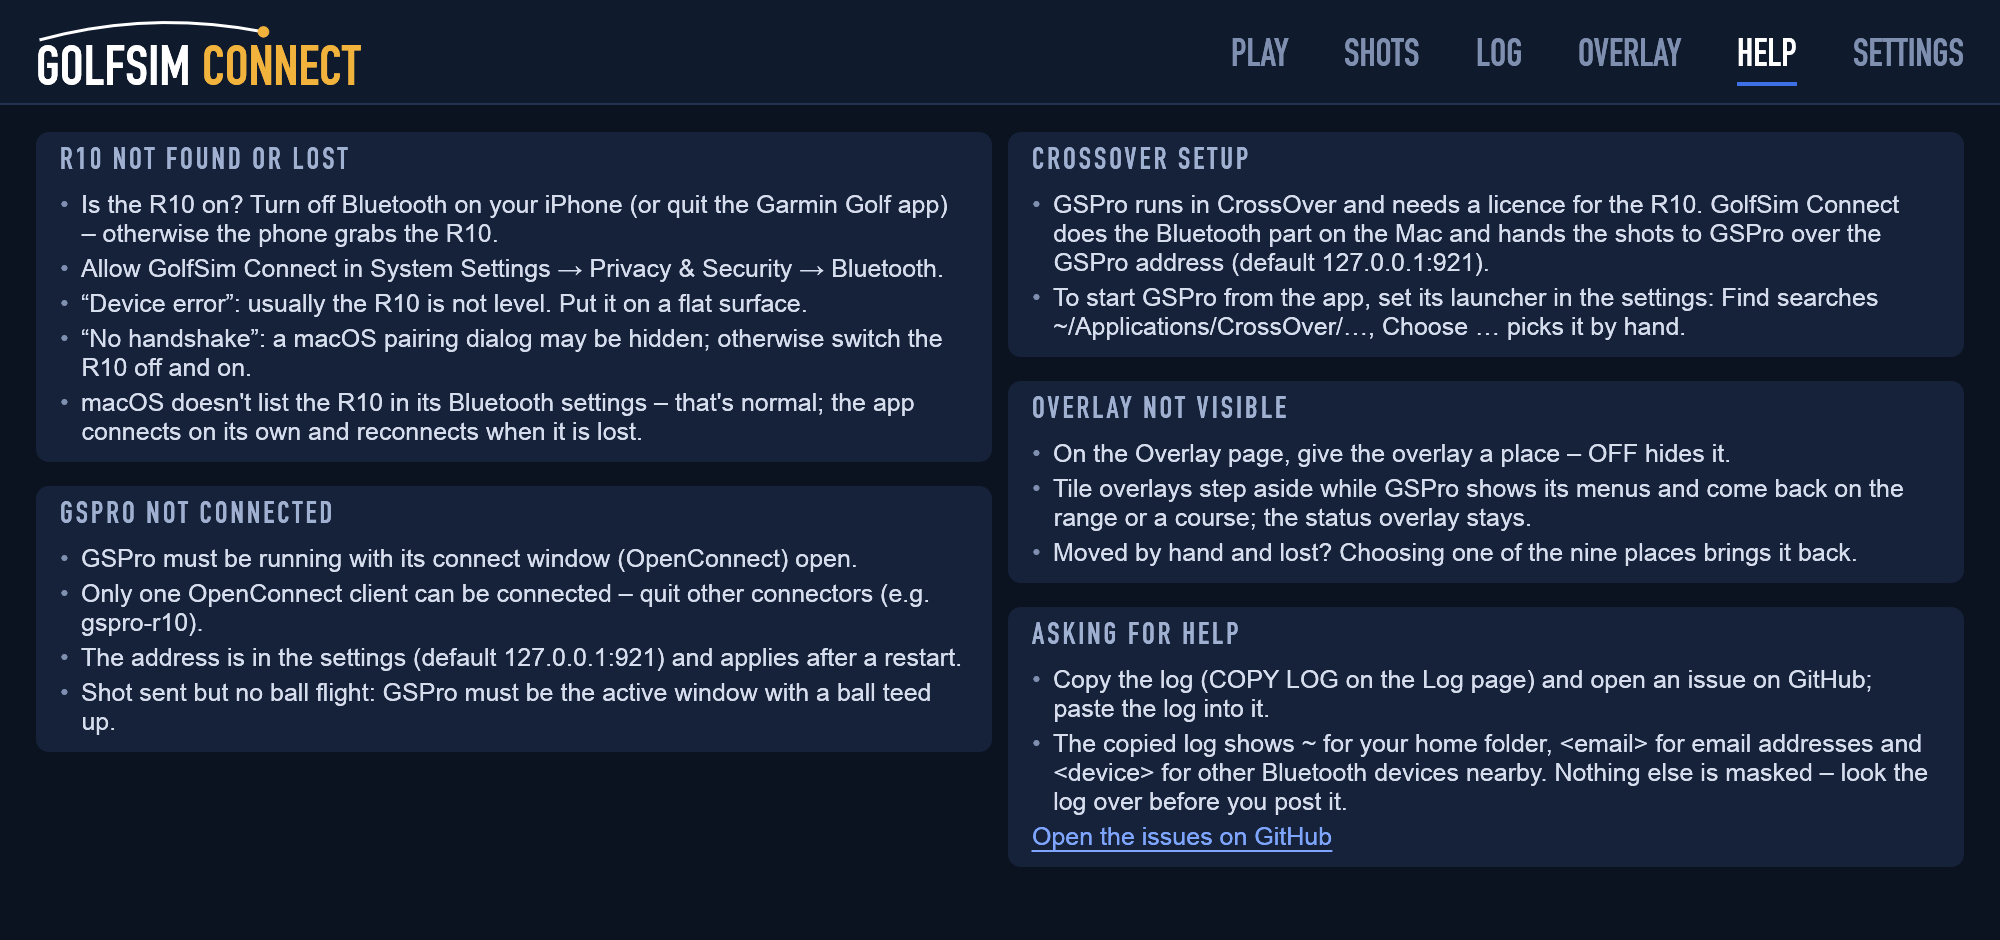
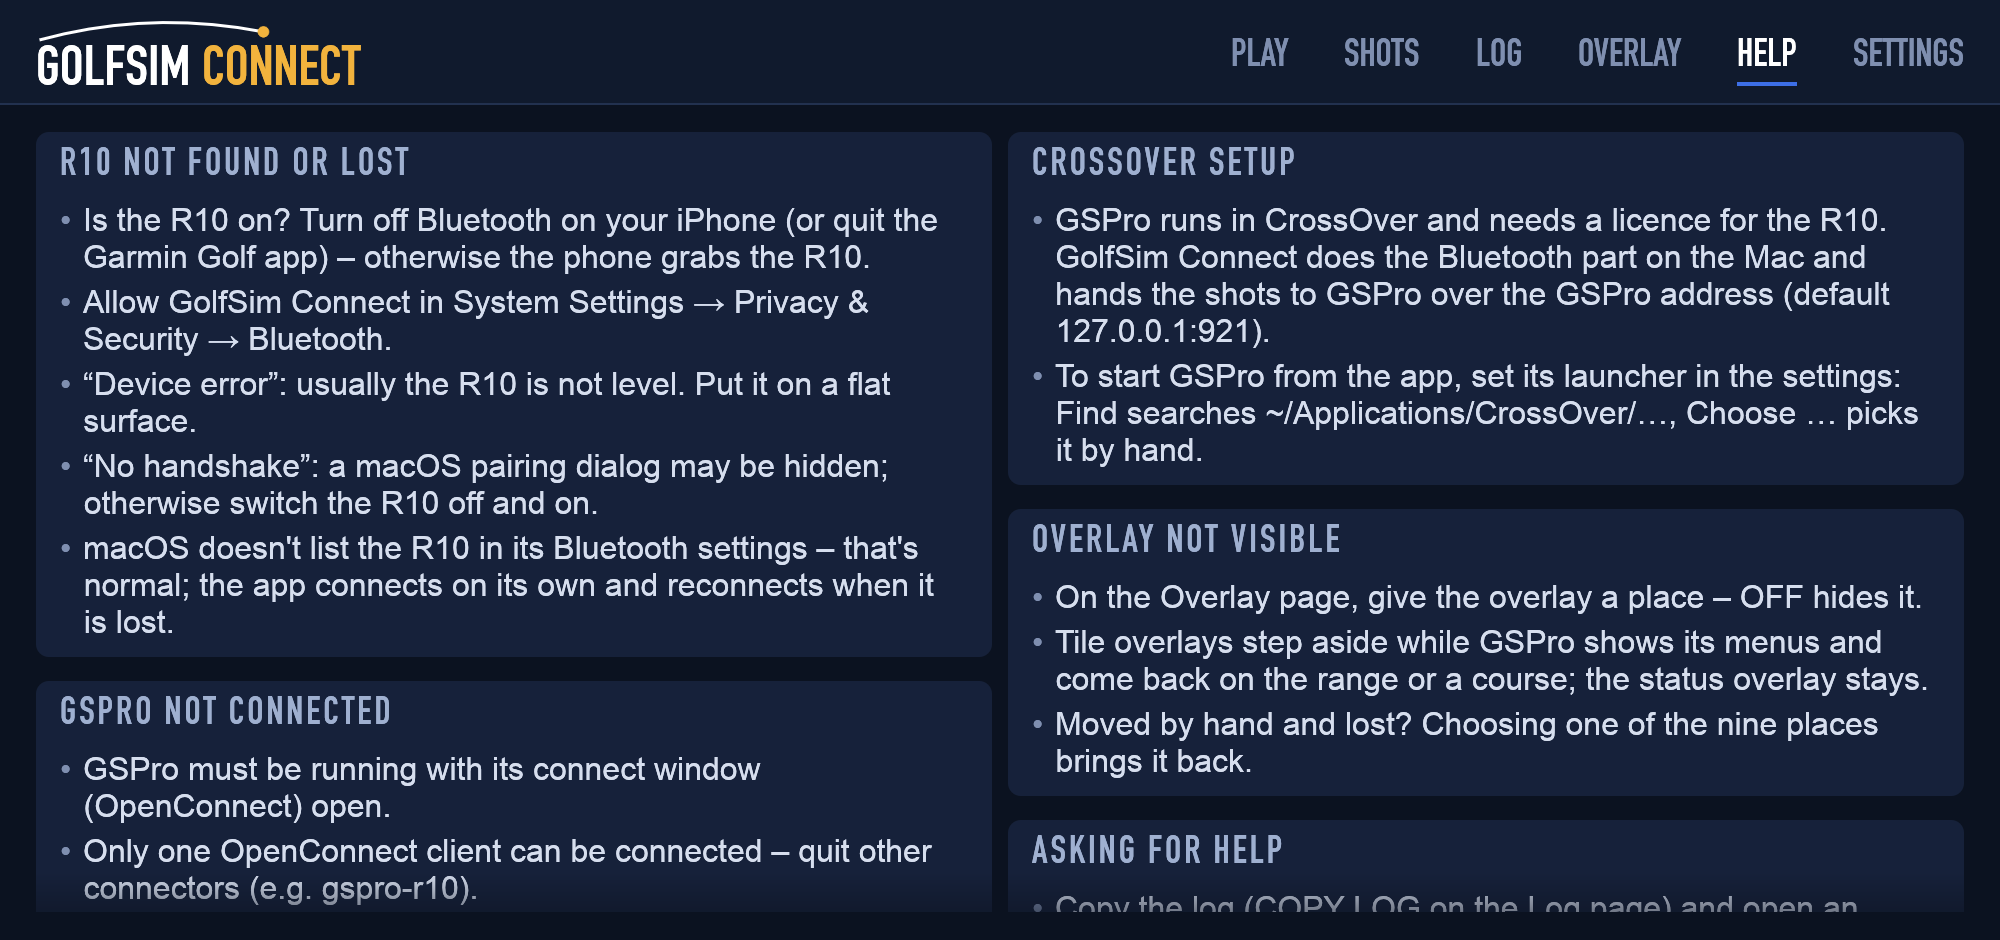
Larger text on the Help page, with named reading sizes in the kit
The Help page is read from the simulator next to GSPro. Its bullets and link
are now 16 pt (kit::READ) and its headings 19 pt (kit::READ_HEADING); the two
columns stay and the page scrolls where it no longer fits. Other pages keep
their sizes.

Changed region(s): [[0.0, 0.1543, 0.992, 0.9872]]

diff --git a/src/ui/help.rs b/src/ui/help.rs
@@ -6,7 +6,7 @@ use eframe::egui::{self, Margin, RichText};
 use crate::i18n::tr;
 
 use super::APP_NAME;
-use super::kit::{ICON, LABEL, MUTED, SOFT, TILE, cond};
+use super::kit::{ICON, LABEL, MUTED, READ, READ_HEADING, SOFT, TILE, cond};
 use super::page::{AppCtx, Page};
 
 /// Where to ask for help: the public repository's issues.
@@ -54,7 +54,7 @@ impl Page for HelpPage {
                 tile(ui, tr("ASKING FOR HELP"), |ui| {
                     bullet(ui, &app(tr("Copy the log (COPY LOG on the Log page) and open an issue on GitHub; paste the log into it.")));
                     bullet(ui, &app(tr("The copied log shows ~ for your home folder, <email> for email addresses and <device> for other Bluetooth devices nearby. Nothing else is masked – look the log over before you post it.")));
-                    let link = ui.link(RichText::new(tr("Open the issues on GitHub")).size(12.5).color(ICON).underline());
+                    let link = ui.link(RichText::new(tr("Open the issues on GitHub")).size(READ).color(ICON).underline());
                     if link.on_hover_text(ISSUES_URL).clicked() {
                         ui.ctx().open_url(egui::OpenUrl::new_tab(ISSUES_URL));
                     }
@@ -77,8 +77,8 @@ fn section(ui: &mut egui::Ui, title: &str, texts: &[String]) {
 fn tile(ui: &mut egui::Ui, title: &str, add: impl FnOnce(&mut egui::Ui)) {
     egui::Frame::new().fill(TILE).corner_radius(6).inner_margin(Margin::symmetric(12, 8)).show(ui, |ui| {
         ui.set_width(ui.available_width());
-        ui.spacing_mut().item_spacing.y = 3.0;
-        ui.label(RichText::new(title).font(cond(15.0)).color(LABEL).extra_letter_spacing(1.5));
+        ui.spacing_mut().item_spacing.y = 4.0;
+        ui.label(RichText::new(title).font(cond(READ_HEADING)).color(LABEL).extra_letter_spacing(1.5));
         add(ui);
     });
     ui.add_space(6.0);
@@ -88,19 +88,48 @@ fn tile(ui: &mut egui::Ui, title: &str, add: impl FnOnce(&mut egui::Ui)) {
 fn bullet(ui: &mut egui::Ui, text: &str) {
     ui.horizontal_top(|ui| {
         ui.spacing_mut().item_spacing.x = 6.0;
-        ui.label(RichText::new("•").size(12.5).color(MUTED));
-        ui.add(egui::Label::new(RichText::new(text).size(12.5).color(SOFT)).wrap());
+        ui.label(RichText::new("•").size(READ).color(MUTED));
+        ui.add(egui::Label::new(RichText::new(text).size(READ).color(SOFT)).wrap());
     });
 }
 
 #[cfg(test)]
 mod tests {
+    use super::super::kit::READ;
     use super::super::{App, BASE_SIZE, setup_style};
     use crate::i18n::{self, Language, tr};
     use crate::settings::{OverlayPos, Settings};
-    use eframe::egui;
+    use eframe::egui::{self, accesskit::Role};
     use egui_kittest::Harness;
     use egui_kittest::kittest::Queryable;
+
+    /// The app at its base size in the current language, on the Help page.
+    fn help_harness() -> Harness<'static, App> {
+        let (tx, _rx) = std::sync::mpsc::channel();
+        let mut harness = Harness::builder().with_size(BASE_SIZE).build_eframe(|cc| {
+            setup_style(&cc.egui_ctx);
+            App::new(Settings { overlay: OverlayPos::Off, ..Settings::default() }, tx)
+        });
+        harness.state_mut().remember_size = false;
+        harness.step();
+        harness.get_by_label(tr("HELP")).click();
+        harness.step();
+        harness.step();
+        harness
+    }
+
+    /// The mouse wheel, far enough for the end of the page.
+    fn scroll_to_end(harness: &mut Harness<'static, App>) {
+        harness.hover_at(egui::pos2(BASE_SIZE.x / 2.0, BASE_SIZE.y / 2.0));
+        harness.step();
+        harness.event(egui::Event::MouseWheel {
+            unit: egui::MouseWheelUnit::Point,
+            delta: egui::vec2(0.0, -2000.0),
+            phase: egui::TouchPhase::Move,
+            modifiers: egui::Modifiers::NONE,
+        });
+        harness.run_steps(8);
+    }
 
     /// The Help page is in the navigation before Settings and shows the four fixes and how to
     /// ask for help, in every shipped language.
@@ -110,16 +139,7 @@ mod tests {
         crate::settings::SAVE.store(false, std::sync::atomic::Ordering::Relaxed);
         for code in ["en", "de"] {
             i18n::set(&Language::new(code));
-            let (tx, _rx) = std::sync::mpsc::channel();
-            let mut harness = Harness::builder().with_size(BASE_SIZE).build_eframe(|cc| {
-                setup_style(&cc.egui_ctx);
-                App::new(Settings { overlay: OverlayPos::Off, ..Settings::default() }, tx)
-            });
-            harness.state_mut().remember_size = false;
-            harness.step();
-            harness.get_by_label(tr("HELP")).click();
-            harness.step();
-            harness.step();
+            let mut harness = help_harness();
             assert_eq!(harness.state().pages[harness.state().page].id(), "help");
             for heading in [
                 tr("R10 NOT FOUND OR LOST"),
@@ -132,6 +152,7 @@ mod tests {
                 harness.get_by_label(heading);
             }
             if code == "en" {
+                scroll_to_end(&mut harness);
                 harness.get_by_label("Open the issues on GitHub").click();
                 harness.step();
                 let opened = harness.output().platform_output.commands.iter().any(|c| {
@@ -141,6 +162,66 @@ mod tests {
             }
             let ids: Vec<&str> = harness.state().pages.iter().map(|p| p.id()).collect();
             assert_eq!(ids[ids.len() - 2..], ["help", "settings"]);
+        }
+        i18n::set(&Language::new("en"));
+    }
+
+    /// The fixes are read from the simulator: at the base size, in every shipped language, the
+    /// text has the reading size, headings stand above it, the bullets wrap inside their column
+    /// with the dot on the first line, and the page scrolls down to the issues link.
+    #[test]
+    fn help_text_is_large_stays_in_its_columns_and_scrolls() {
+        const TILE_MARGIN: f32 = 12.0;
+        let _state = crate::test_util::state_lock();
+        crate::settings::SAVE.store(false, std::sync::atomic::Ordering::Relaxed);
+        let headings = ["R10 NOT FOUND OR LOST", "GSPRO NOT CONNECTED", "CROSSOVER SETUP", "OVERLAY NOT VISIBLE", "ASKING FOR HELP"];
+        for code in ["en", "de"] {
+            i18n::set(&Language::new(code));
+            let mut harness = help_harness();
+            let spacing = harness.ctx.global_style().spacing.item_spacing.x;
+            let left = harness.get_by_label(tr("R10 NOT FOUND OR LOST")).rect().min.x;
+            let right = harness.get_by_label(tr("CROSSOVER SETUP")).rect().min.x;
+            let inner_width = right - left - spacing - 2.0 * TILE_MARGIN;
+            assert_eq!(harness.get_by_label(tr("GSPRO NOT CONNECTED")).rect().min.x, left, "{code}: two columns");
+            assert_eq!(harness.get_by_label(tr("OVERLAY NOT VISIBLE")).rect().min.x, right, "{code}: two columns");
+
+            let labels: Vec<(String, egui::Rect)> = harness
+                .get_all_by_role(Role::Label)
+                .filter(|n| n.rect().min.y >= harness.get_by_label(tr("R10 NOT FOUND OR LOST")).rect().min.y)
+                .map(|n| (n.value().unwrap_or_default(), n.rect()))
+                .collect();
+            let dots: Vec<egui::Rect> = labels.iter().filter(|(text, _)| text == "•").map(|(_, r)| *r).collect();
+            let bullets: Vec<&(String, egui::Rect)> = labels
+                .iter()
+                .filter(|(text, _)| text != "•" && !headings.iter().any(|h| text == tr(h)))
+                .collect();
+            assert_eq!(bullets.len(), 16, "{code}: every bullet was looked at");
+            assert_eq!(dots.len(), 16, "{code}: every bullet has its dot");
+
+            let line = dots[0].height();
+            assert!(line >= READ, "{code}: a text line is {line} high, under the reading size {READ}");
+            for heading in headings {
+                let height = harness.get_by_label(tr(heading)).rect().height();
+                assert!(height > line, "{code}: {heading} is {height} high, a text line {line}");
+            }
+            for (text, rect) in bullets {
+                assert!(rect.height() >= READ, "{code}: under the reading size: {text}");
+                let column = if rect.min.x < right { left } else { right };
+                assert!(rect.min.x >= column, "{code}: starts left of its column: {text}");
+                assert!(rect.max.x <= column + inner_width, "{code}: wider than its column ({} > {}): {text}", rect.max.x, column + inner_width);
+                assert!(
+                    dots.iter().any(|dot| (dot.min.y - rect.min.y).abs() < 0.5 && dot.max.x <= rect.min.x),
+                    "{code}: no dot on the first line of: {text}"
+                );
+            }
+
+            let link = tr("Open the issues on GitHub");
+            assert!(harness.get_by_label(link).rect().max.y > BASE_SIZE.y, "{code}: the page no longer fits, it scrolls");
+            scroll_to_end(&mut harness);
+            let rect = harness.get_by_label(link).rect();
+            assert!(rect.max.y <= BASE_SIZE.y, "{code}: the issues link ends at {} after scrolling", rect.max.y);
+            assert!(rect.height() >= READ, "{code}: the issues link is under the reading size");
+            assert!(rect.max.x <= right + inner_width, "{code}: the issues link is wider than its column");
         }
         i18n::set(&Language::new("en"));
     }

diff --git a/src/ui/kit.rs b/src/ui/kit.rs
@@ -60,6 +60,11 @@ pub fn cond(size: f32) -> FontId {
     FontId::new(size, FontFamily::Name("cond".into()))
 }
 
+/// Text size for pages read at a distance, like *Help* next to GSPro: body text, bullets and links.
+pub const READ: f32 = 16.0;
+/// Heading size above [`READ`], for the condensed font ([`cond`]).
+pub const READ_HEADING: f32 = 19.0;
+
 /// DIN Condensed's capitals sit about a quarter of the font size above the middle of the
 /// text box (measured in the rendered screenshots).
 pub(crate) const CAPS_OFFSET: f32 = 0.25;

diff --git a/docs/architecture.md b/docs/architecture.md
@@ -76,7 +76,7 @@ The module `ui` (`src/ui/`):
 | `mod.rs` | `run()`/`run_with()`, `App`, the *Play*, *Settings* and *Log* pages, zoom, screenshot capture |
 | `help.rs` | The *Help* page: the common fixes and how to ask for help |
 | `page.rs` | The `Page` trait, `AppCtx` (what pages share), the list of pages |
-| `kit.rs` | Public building blocks: palette, `cond`/`caps_text`, `card`, `button`, `secondary_button`, `toggle`, `segments`, `stepper`, `setting_row`, `Icon`, `confirm`, `setup_style` |
+| `kit.rs` | Public building blocks: palette, `cond`/`caps_text`, the reading sizes `READ`/`READ_HEADING`, `card`, `button`, `secondary_button`, `toggle`, `segments`, `stepper`, `setting_row`, `Icon`, `confirm`, `setup_style` |
 | `overlay.rs` | Overlay windows, `OverlayContent` and its drawing, the *Overlay* page, arrangements |
 | `explorer.rs`, `explorer/*.rs` | The *Shots* page (shots explorer), the tile kind interface, and the kinds: `table.rs`, `details.rs`, `dispersion.rs`, `scatter.rs` (correlation), `flight3d.rs` |
 | `mac.rs` | AppKit: overlay frames, window levels, ordering above GSPro, the main window's size |

diff --git a/CHANGELOG.md b/CHANGELOG.md
@@ -16,6 +16,8 @@ The format is based on [Keep a Changelog](https://keepachangelog.com/en/1.1.0/),
 - **Nearby Bluetooth devices masked in the log:** when the app searches for the R10, the log lists the devices it
   found with their ids, but shows every name except the R10's as `<device>` – in the terminal, on the Log page and
   in the copy. The Help page says so.
+- **Larger text on the Help page:** the fixes are set at 16 pt with larger headings, so they can be read from the
+  simulator next to GSPro. The two columns stay; the page scrolls where it no longer fits.
 
 ### Removed
 - The app no longer checks GitHub for updates and contacts nobody on its own; new versions are on the releases page.
